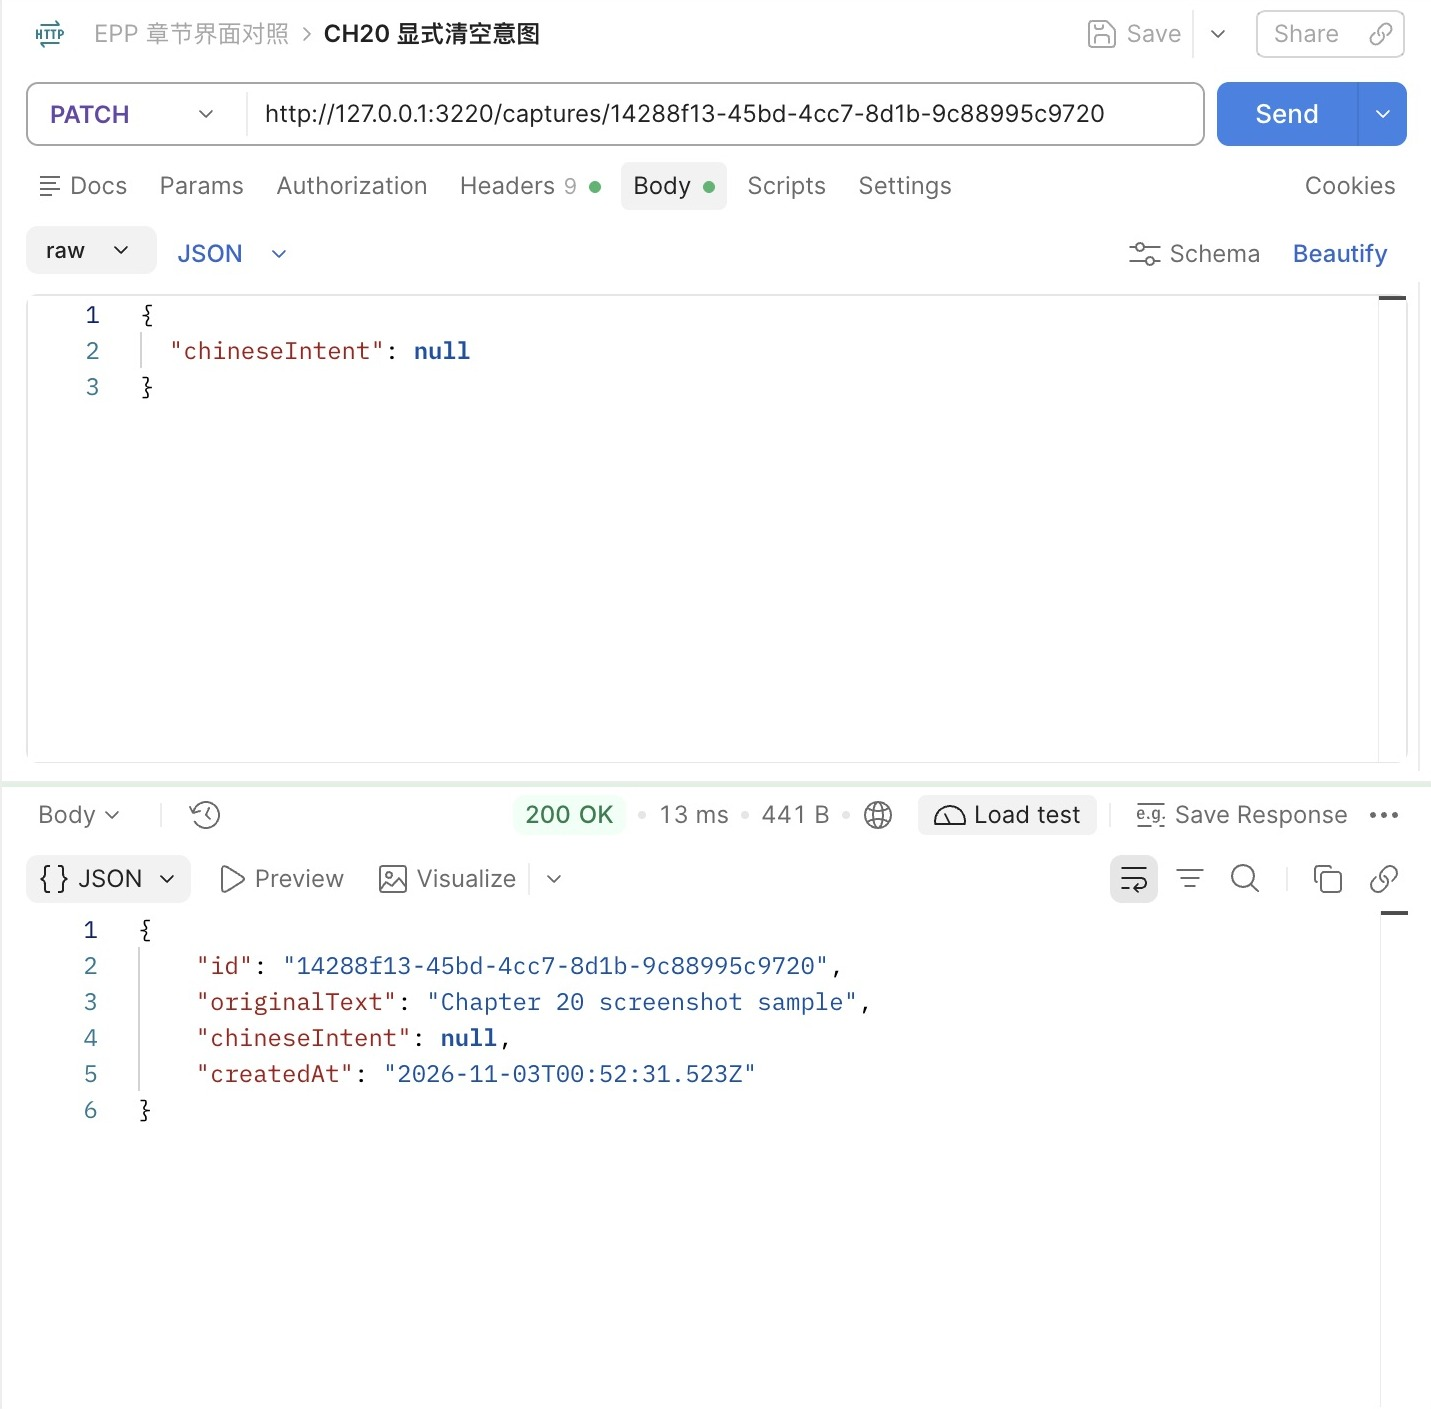
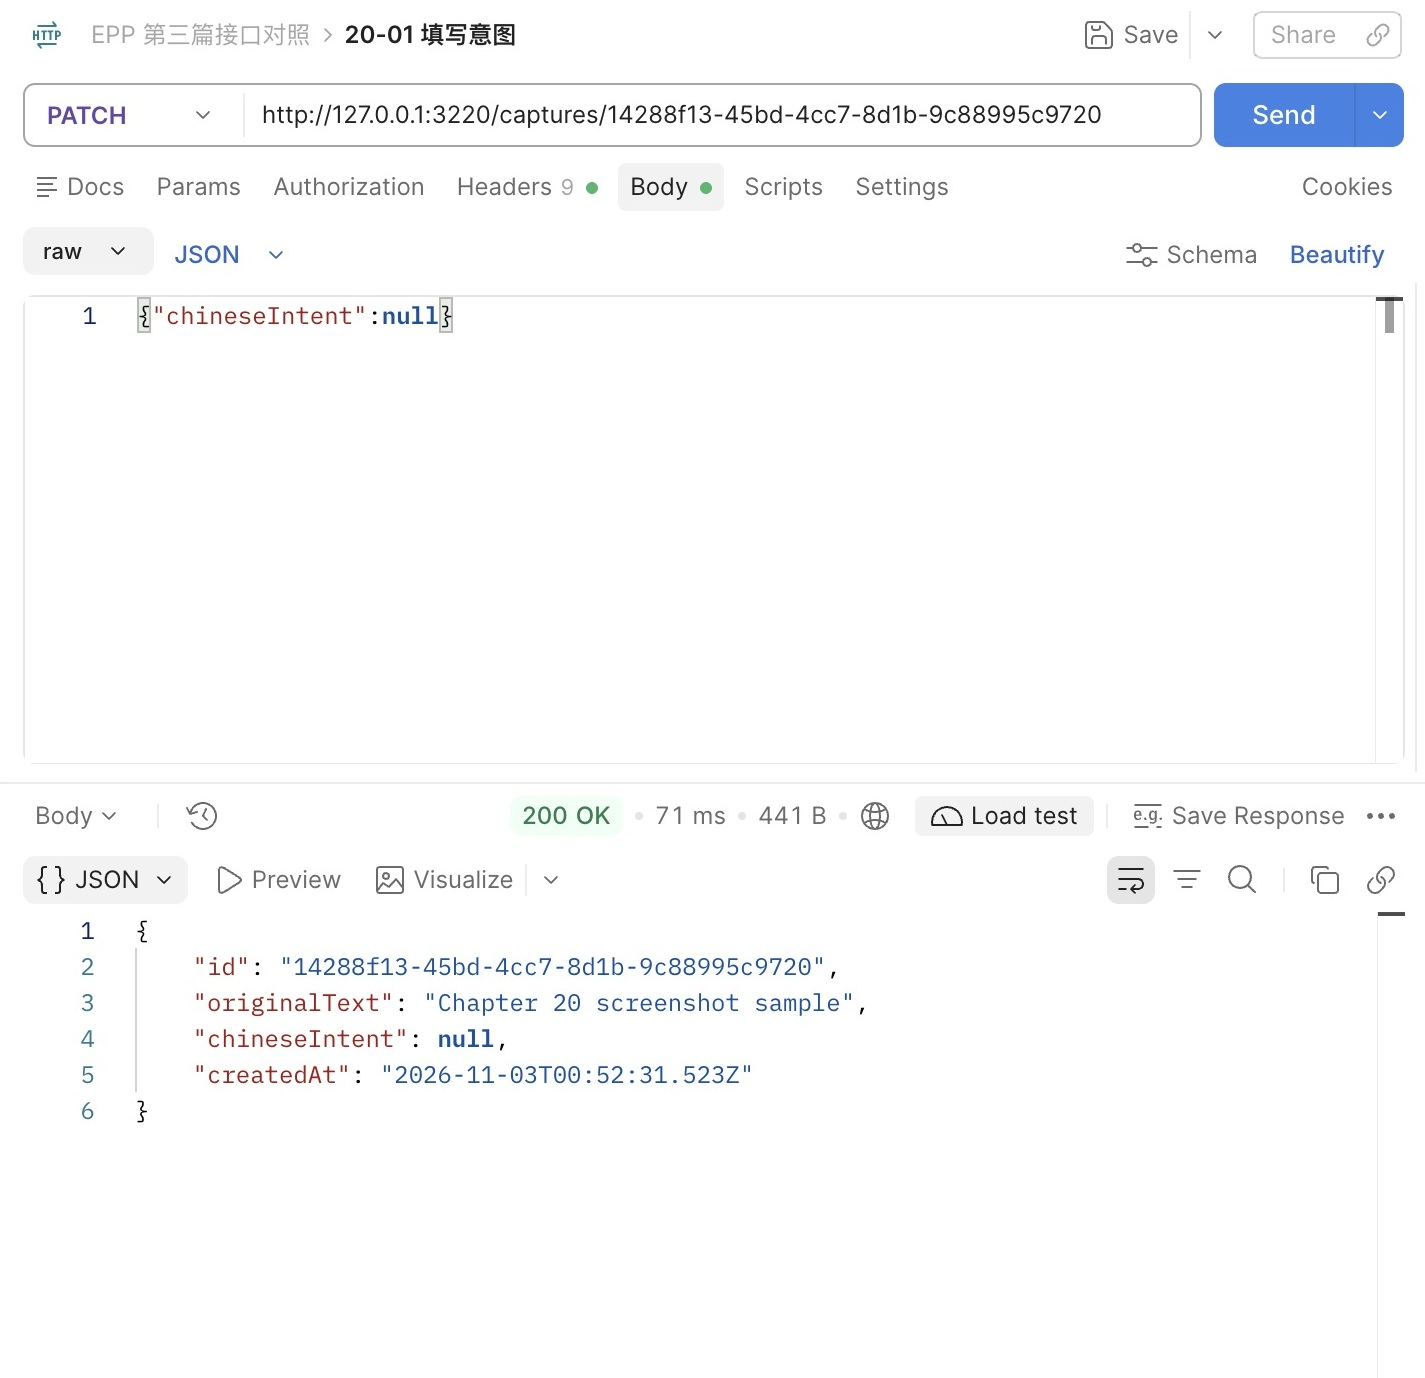
docs(ch20): illustrate intent updates and creation compatibility in Postman

diff --git a/part-03-postgresql/chapter-20-migrations/chapter.md b/part-03-postgresql/chapter-20-migrations/chapter.md
@@ -6,7 +6,7 @@
 
 起点代码为 `part-03/chapter-19`，完成代码为 `part-03/chapter-20`。继续使用 Node.js 24.22.1、Prisma CLI／Client／adapter-pg 7.10.1、pg 8.16.3 和 PostgreSQL 18；本章不升级依赖。读者应已完成第十八章迁移基线和第十九章数据库接入，日常库 `epp_dev` 有真实旧记录。Prisma 官方站点的默认文档可能指向新主版本，本章命令以 **v7** 文档和固定版本的 `--help` 为准。
 
-**时间参考**：阅读约 100～120 分钟，编码与操作另加 65～90 分钟，均为估算；不含下载和支线。手写推进按 20.1→20.2→20.3，先完成数据库扩展再启动新代码；直接使用完成代码时，先按 20.2 的“已有迁移文件”路径应用迁移，再进行 20.3 的图形联调。不要对成品再生成同名迁移。
+**时间参考**：阅读约 115～135 分钟，编码与操作另加 65～90 分钟，均为估算；不含下载和支线。手写推进按 20.1→20.2→20.3，先完成数据库扩展再启动新代码；直接使用完成代码时，先按 20.2 的“已有迁移文件”路径应用迁移，再进行 20.3 的图形联调。不要对成品再生成同名迁移。
 
 ## 20.1 先决定旧数据的含义，再决定列怎么加
 
@@ -364,11 +364,37 @@ patch: {
 
 ![为已有记录补充意图，原文与创建时间保持](images/01-patch-intent.jpg)
 
+Postman 中也按同样方法操作。下面一组改用一条独立演示记录，原文为 `Chapter 20 screenshot sample`；在这组对照内部始终保持 URL 中同一个 ID，填写意图“用于比较缺失字段与清空。”。
+
+![Postman：PATCH 成功写入意图并返回同一条记录](images/postman-patch-success.jpg)
+
+Body 选择 raw／JSON，响应的 `chineseIntent` 与输入相同；记下 ID、原文、意图和创建时间，作为随后拒绝实验的比较基线。图中端口为 3220，跟做使用自己的服务地址。
+
 继续在图形客户端比较 `{}`、`{"chineseIntent":"   "}` 和 `{"chineseIntent":null}`：前两项 400 且旧值不变，后一项 200 并明确清空。发送仅包含原文的旧创建请求，201 响应意图为 null；带意图的新创建请求则保留输入。这时数据库中旧记录、新记录、已填写和未填写记录可以同时存在。
+
+![Postman：PATCH 的空对象不代表保留原值或清空](images/postman-missing-intent.jpg)
+
+请求 Body 是合法 JSON 对象 `{}`，问题发生在字段契约：`issues` 指向 `chineseIntent`，消息中的 `undefined` 表示未提供字段，不是数据库中的 SQL NULL。创建接口允许省略意图，不代表修改接口也接受省略；先看当前请求方法，再解释响应。
+
+![Postman：仅含空格的意图不能作为有效文本写入](images/postman-blank-intent.jpg)
+
+这次字段存在且类型为字符串，失败原因变为没有非空白字符。和后面的成功清空图对照：空对象、纯空白字符串、JSON null 是三种不同意图，不能由客户端统一改成空字符串。两张 400 图只证明输入拒绝；再 GET 同一个 ID 并与操作前比较，才补齐旧值保持的观察。
+
+![Postman：两个非法 PATCH 之后，GET 仍返回最后一次成功的意图](images/postman-rejected-preserves-value.jpg)
+
+这次 GET 在发送空对象和纯空白请求之后执行。与成功 PATCH 图相比，ID、原文、意图“用于比较缺失字段与清空。”及创建时间都保持；这才把“请求被拒绝”和“旧值未改变”连起来。完成比较后，再发送显式 null，观察清空的不同结果。
 
 ![Postman：显式 null 清空意图，响应保留字段](images/postman-clear-intent.jpg)
 
 注意请求确实包含 chineseIntent，值是 JSON null，不是字符串 "null"，也不是省略字段。响应仍包含 chineseIntent: null；应按同一 id 与操作前结果比较原文和 createdAt，并在 DBeaver 核对列值。端口使用当前服务地址。
+
+![Postman：旧创建请求省略意图时，响应明确返回 null](images/postman-create-without-intent.jpg)
+
+这个 POST 的 Body 只有 `originalText`，201 响应仍明确包含 `chineseIntent: null`。它和前面的 PATCH 空对象不是同一种操作：创建时可以尚无意图，修改时则要求说明要改成什么。
+
+![Postman：新创建请求可以同时保存原文与意图](images/postman-create-with-intent.jpg)
+
+第二个 POST 显式提供意图，201 响应保留该值。两张创建图的 ID 不同，这是两个新记录，不是给上一条记录追加内容；第 22 章才引入修订身份。继续在详情、列表与 DBeaver 中按各自 ID 核对，不用只看原文相似就认定是同一条记录。
 
 若 PATCH 返回 405，先检查方法边界；415 看 Content-Type；400 看 Problem 的 code 和字段路径；500／503 再用 `X-Request-Id` 关联日志。若数据库已改但响应 500，检查输出投影及 Schema，不能直接重放修改。给 `updateIntent`、SQL 返回与响应拦截器设断点，分别看输入、实际更新行和最终表示；查询事件参数中含用户文本，只在本机示例调试时观察，不增加常态原文日志。
 
